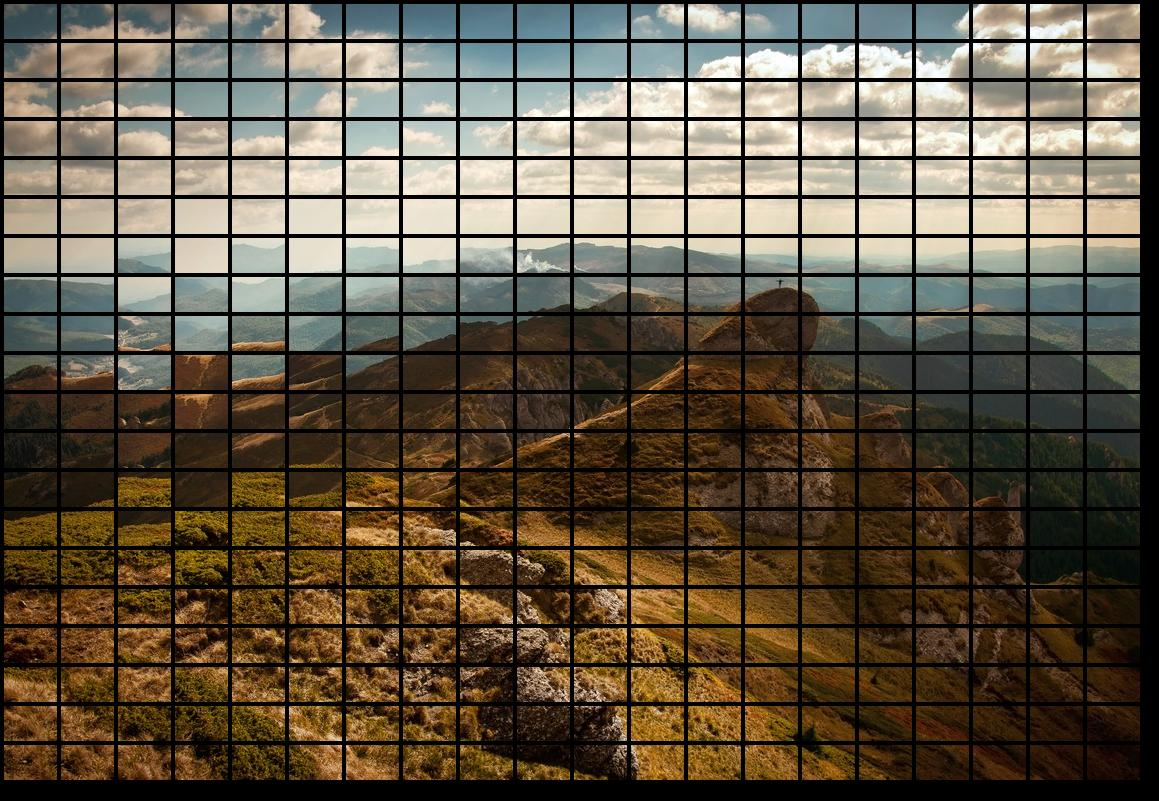
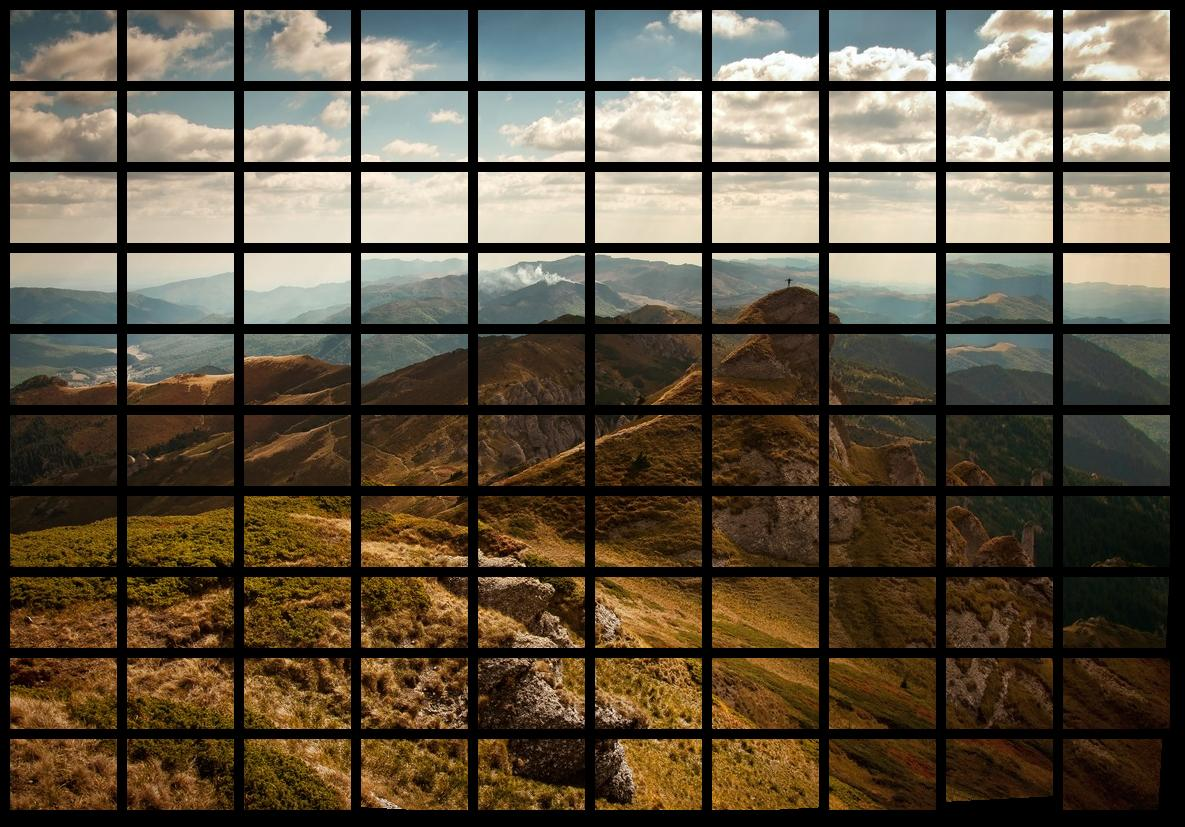
updated readme and mountain image

diff --git a/TiltedContactSheet.py b/TiltedContactSheet.py
@@ -7,9 +7,9 @@ import cStringIO
 class TiltedContactSheet:
 
     def __init__(self):
-        self._spacing = 4
+        self._spacing = 10
         self._hcells = 0
-        self._vcells = 20
+        self._vcells = 10
         self._hrotate = (2, 10)
         self._vrotate = (3, 17)
         self._rotate_angle = 3

diff --git a/README.md b/README.md
@@ -11,4 +11,9 @@ There is a problem in that the axis of rotation for affected frames is the cente
 of rotation should be in the affected frame.
 
 
-images are from https://unsplash.com
+original images are from https://unsplash.com
+
+(/building_out.jpg)
+
+(/mountain_out.jpg)
+
